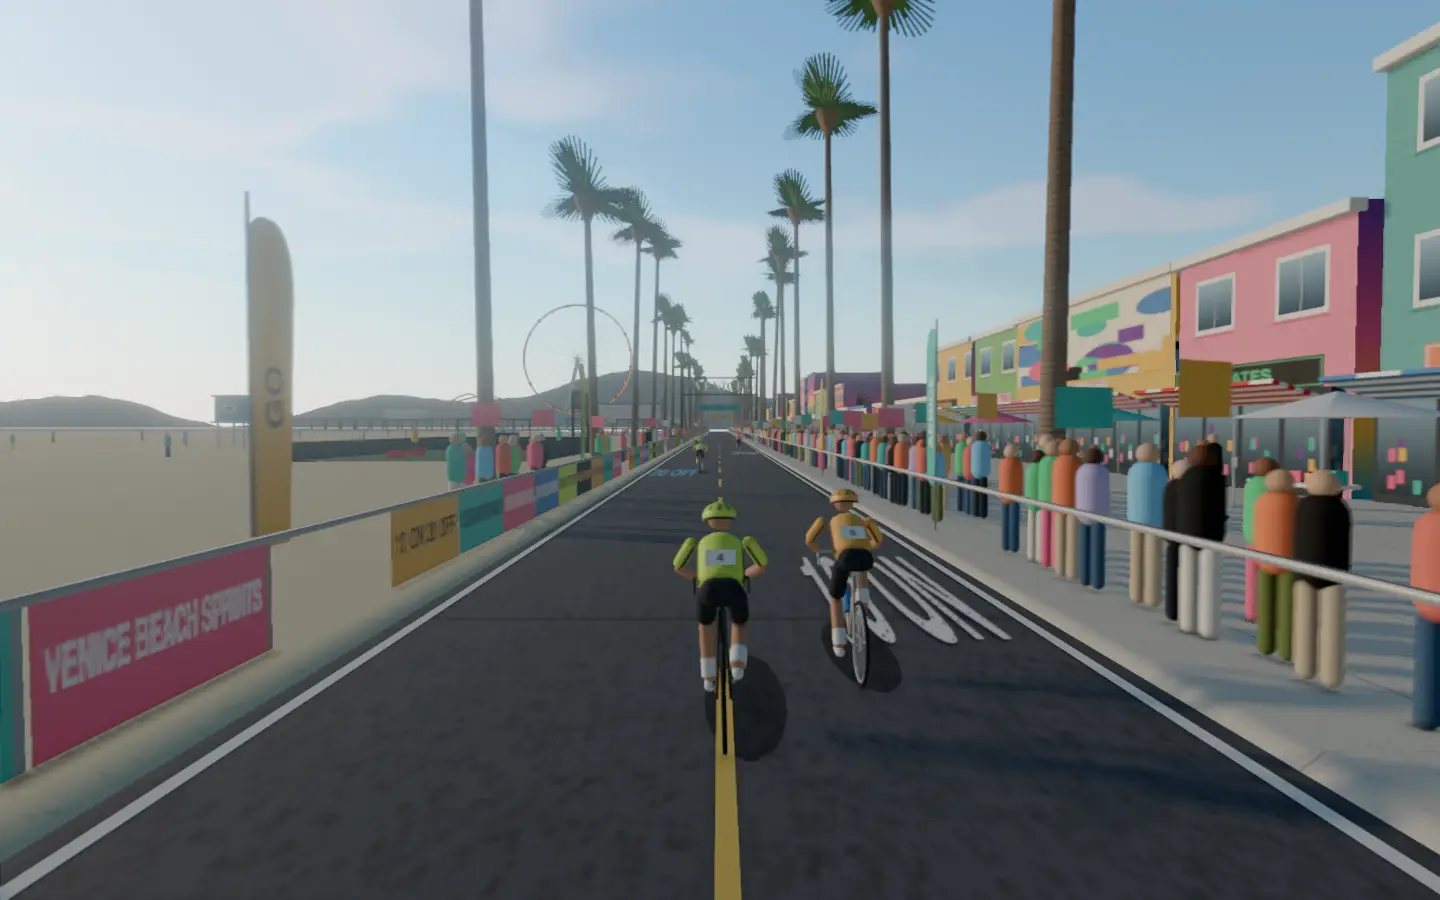
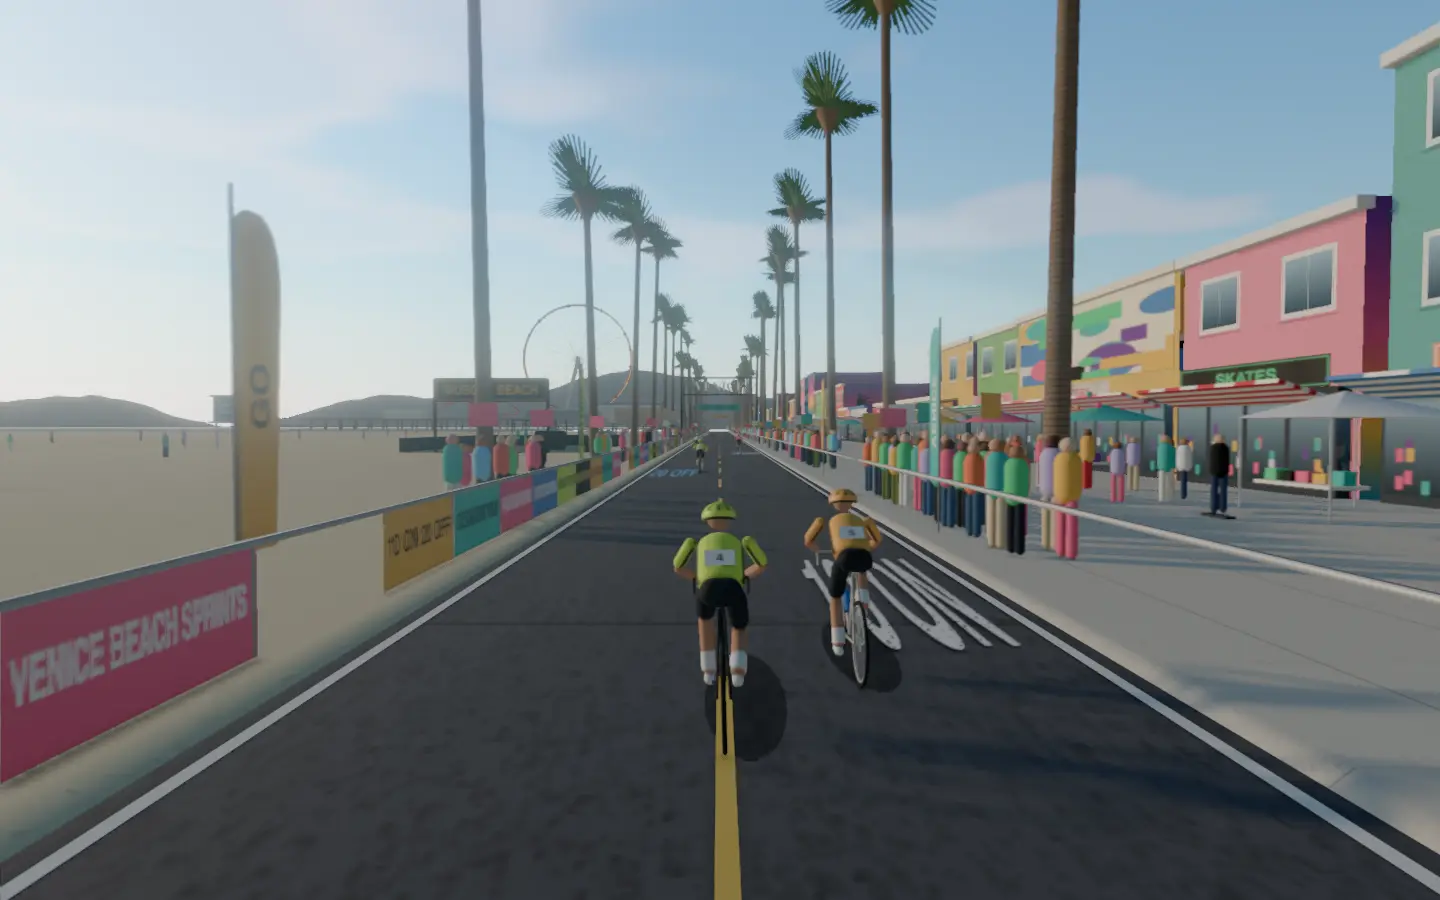
Bring Venice Beach's boardwalk life and Muscle Beach into view
The boardwalk crowd stands in looser knots so the skaters and walkers show
between them, the first street performer's ring comes just ahead, and Muscle
Beach sits 165 m into the loop with its sign turned over the entrance to face
the riders. Render quality 72% -> 74% (crowd and life 6 -> 7, description
fidelity 6 -> 7).

diff --git a/frontend/projects/wattzup/src/app/core/world-venice.ts b/frontend/projects/wattzup/src/app/core/world-venice.ts
@@ -70,6 +70,12 @@ const SEA = -84;
 const SKATERS = 20;
 const PERFORMERS = 4;
 const WATCHERS = 11;
+/**
+ * Where the first performer's ring and Muscle Beach stand along the loop: early, so the
+ * boardwalk's life and the outdoor gym are in view as the warm-up rolls out.
+ */
+const PERFORMER_FIRST = 118;
+const MUSCLE_BEACH = 165;
 /** The Santa Monica Pier stands out into the bay ahead, hazed by hand. */
 const PIER_AHEAD = 520;
 const HAZE = 0xd6dde0;
@@ -198,10 +204,10 @@ export class VeniceStreet implements SceneStreet {
       flags: this.flagMaterials,
       flagShare: 0.16,
       seeds: [211, 223],
-      // The boardwalk crowd stands in knots between the palms. On the beach side the fans stand
+      // The boardwalk crowd stands in knots, with the boardwalk's life showing between them. On the beach side the fans stand
       // one deep in clusters, so the sand and the courts show between them.
       skip: (side, offset, x) =>
-        side > 0 ? offset % 18 < 3 : x > -CROWD_NEAR - 0.5 || offset % 20 < 9,
+        side > 0 ? offset % 24 < 11 : x > -CROWD_NEAR - 0.5 || offset % 20 < 9,
     });
   }
 
@@ -275,7 +281,7 @@ export class VeniceStreet implements SceneStreet {
     const watchers = this.watchers;
     if (performers && watchers) {
       for (let p = 0; p < PERFORMERS; p++) {
-        const offset = 40 + p * (LOOP / PERFORMERS);
+        const offset = PERFORMER_FIRST + p * (LOOP / PERFORMERS);
         const metres = along(offset, LOOP);
         const y = ground(metres) + KERB;
         const cx = 10.6;
@@ -718,10 +724,10 @@ export class VeniceStreet implements SceneStreet {
     }
     for (const z of [3, 6.5]) box(bench, 0.5, 0.5, 1.8, -3, 0.1, z);
     box(steel, 2.5, 1.6, 0.1, 3, 0.1, 5);
-    // The sign over the entrance.
-    for (const z of [-3, 3]) box(steel, 0.18, 4.4, 0.18, 7.3, 0, z);
+    // The sign over the entrance at the end facing the riders as they come up the path.
+    for (const x of [-4.2, 4.2]) box(steel, 0.2, 5.6, 0.2, x, 0, 11.3);
     const sign = new Mesh(
-      new PlaneGeometry(6.4, 1.3),
+      new PlaneGeometry(8.4, 1.8),
       this.material({
         map: this.track(clothBannerTexture('MUSCLE BEACH', '#1b1e24', '#ffbf3c')),
         side: DoubleSide,
@@ -729,11 +735,10 @@ export class VeniceStreet implements SceneStreet {
       }),
     );
     this.disposables.push(sign.geometry);
-    sign.position.set(7.3, 3.9, 0);
-    sign.rotation.y = Math.PI / 2;
+    sign.position.set(0, 4.8, 11.35);
     gym.add(sign);
     this.group.add(gym);
-    this.props.push({ mesh: gym, offset: 150, every: LOOP, x: -17 });
+    this.props.push({ mesh: gym, offset: MUSCLE_BEACH, every: LOOP, x: -17 });
     // The lifters and their spotters.
     for (const [x, z] of [
       [-2, -7],
@@ -743,7 +748,12 @@ export class VeniceStreet implements SceneStreet {
       [-1, 0],
       [4.5, -6],
     ] as const) {
-      this.bathers.push({ x: -17 + x, offset: 150 - z, heading: Math.PI / 2, scale: 1.08 });
+      this.bathers.push({
+        x: -17 + x,
+        offset: MUSCLE_BEACH - z,
+        heading: Math.PI / 2,
+        scale: 1.08,
+      });
     }
   }
 
@@ -818,7 +828,7 @@ export class VeniceStreet implements SceneStreet {
     fun.position.set(0, 0.9, 0);
     park.add(fun);
     this.group.add(park);
-    this.props.push({ mesh: park, offset: 390, every: LOOP, x: -17 });
+    this.props.push({ mesh: park, offset: 215, every: LOOP, x: -17 });
   }
 
   /** LA County's lifeguard towers: pale blue huts on stilts, each with its ramp. */

diff --git a/docs/detailed-designs/world-ride/draw-class-scene/README.md b/docs/detailed-designs/world-ride/draw-class-scene/README.md
@@ -154,8 +154,8 @@ None.
   - the path's dashed yellow centre line and white edges with the fans' writing every 25 m, race barriers hung with the race's banners on both sides, feather flags along them, cloth banners across the path and Venice's sign, VENICE in white letters on a steel frame, once a loop;
   - on the right the boardwalk's pale concrete, vendors' stalls under pop-up canopies and low stucco shops of one to three storeys in bright paint, each with a shopfront, a sign board and a striped awning, murals on some upper fronts and on the end walls facing the rider, and alleys between them;
   - tall Mexican fan palms in rows on both sides, each a thin ringed trunk, a skirt of dead fronds and a crown of fans;
-  - on the left the sand out to the surf and the Pacific, with Muscle Beach's fenced outdoor gym and its sign, two basketball courts with a game on, the skate park's bowls and fun box, and LA County's pale blue lifeguard towers;
-  - the shared crowd behind the barriers, in knots on the boardwalk and one deep in clusters on the beach side; skaters on their boards rolling the boardwalk both ways, street performers dancing and juggling in rings of watchers, lifters at Muscle Beach, players on the courts and people on the sand and at the surf line (the kit's `Figures`);
+  - on the left the sand out to the surf and the Pacific, with Muscle Beach's fenced outdoor gym, its sign over the entrance facing the riders 165 m into the loop, two basketball courts with a game on, the skate park's bowls and fun box, and LA County's pale blue lifeguard towers;
+  - the shared crowd behind the barriers, in loose knots on the boardwalk so its life shows between them and one deep in clusters on the beach side; skaters on their boards rolling the boardwalk both ways, street performers dancing and juggling in rings of watchers (the first just ahead as the warm-up rolls out), lifters at Muscle Beach, players on the courts and people on the sand and at the surf line (the kit's `Figures`);
   - the Santa Monica Pier out in the bay ahead: its deck on piles, a pavilion, a coaster's loop and the Ferris wheel turning on the street's clock, ringed with gold lights, with the Santa Monica Mountains along the horizon behind, all hazed by hand.
 
   `lay`, `place` and `setTime` recycle it along a 500 m loop.

diff --git a/docs/class-worlds.md b/docs/class-worlds.md
@@ -16,7 +16,7 @@ Every class in `frontend/public/classes.json`, with its World Ride scene. Render
 | 10 | Sprintavals | Knicks Championship Parade | 80% | Ticker tape and orange and blue streamers drift down between the towers of lower Broadway's Canyon of Heroes as fans pack the barricades for the Knicks' championship parade, the Woolworth Building's copper crown rising at the far end. The four long builds reel in the floats rolling up Broadway, and the five ten-second sprints each jump from one float to the next before the last surge toward the Woolworth. |
 | 11 | Time Is of the Essence | Westminster Rush Hour | 60% | London at dusk beneath Big Ben; race black cabs and red buses before the clock chimes. |
 | 12 | 15-Minute Smash Fest | Rio Sambadrome (concept) |  | Carnival night in Rio; glittering samba schools fill the runway and every smash rides the drum line. |
-| 13 | 10 On 20 Off Max Sprints | Venice Beach Boardwalk | 72% | Skaters glide past street performers, mural-painted shopfronts and towering palms along Venice Beach's Ocean Front Walk, the Santa Monica Pier's Ferris wheel turning over the bay ahead. The two one-minute efforts warm up past Muscle Beach, and the eighteen ten-second sprints each burst between the palms before twenty seconds cruising in the ocean breeze. |
+| 13 | 10 On 20 Off Max Sprints | Venice Beach Boardwalk | 74% | Skaters glide past street performers, mural-painted shopfronts and towering palms along Venice Beach's Ocean Front Walk, the Santa Monica Pier's Ferris wheel turning over the bay ahead. The two one-minute efforts warm up past Muscle Beach, and the eighteen ten-second sprints each burst between the palms before twenty seconds cruising in the ocean breeze. |
 | 14 | 15 Minute Cardio HIIT | Central Park Loop | 65% | Early laps of Central Park past the reservoir and Bethesda Fountain, joggers and carriages sharing the drive. |
 | 15 | 15 Minute Strength Workout | Lisbon Tram Hills (concept) |  | Steep cobbled Alfama lanes beside yellow trams; grind each climb toward the castle above the Tagus. |
 | 16 | Low Cadence Strength Builder | Koppenberg Cobbles (concept) |  | Flemish farm lanes in spring mist; heavy gears over slick Koppenberg cobbles with crowds lining the bank. |
